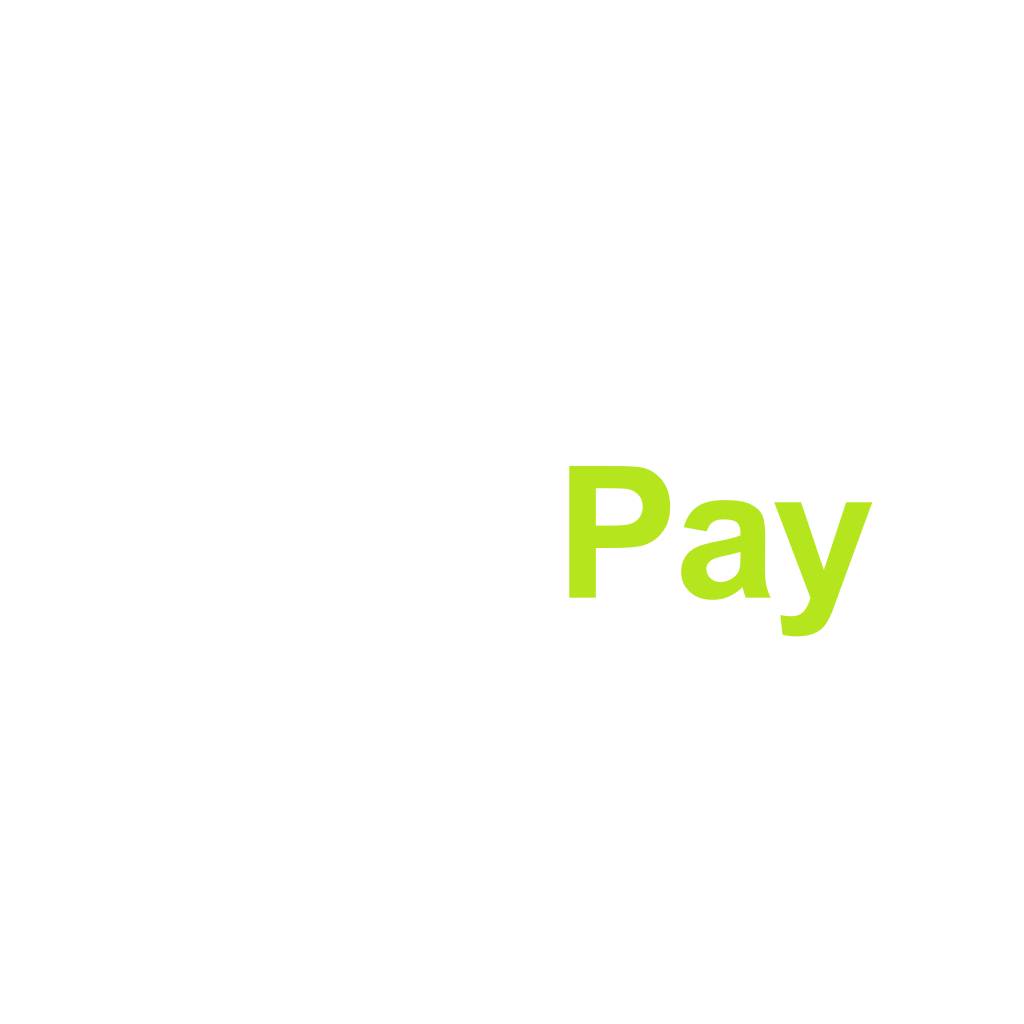
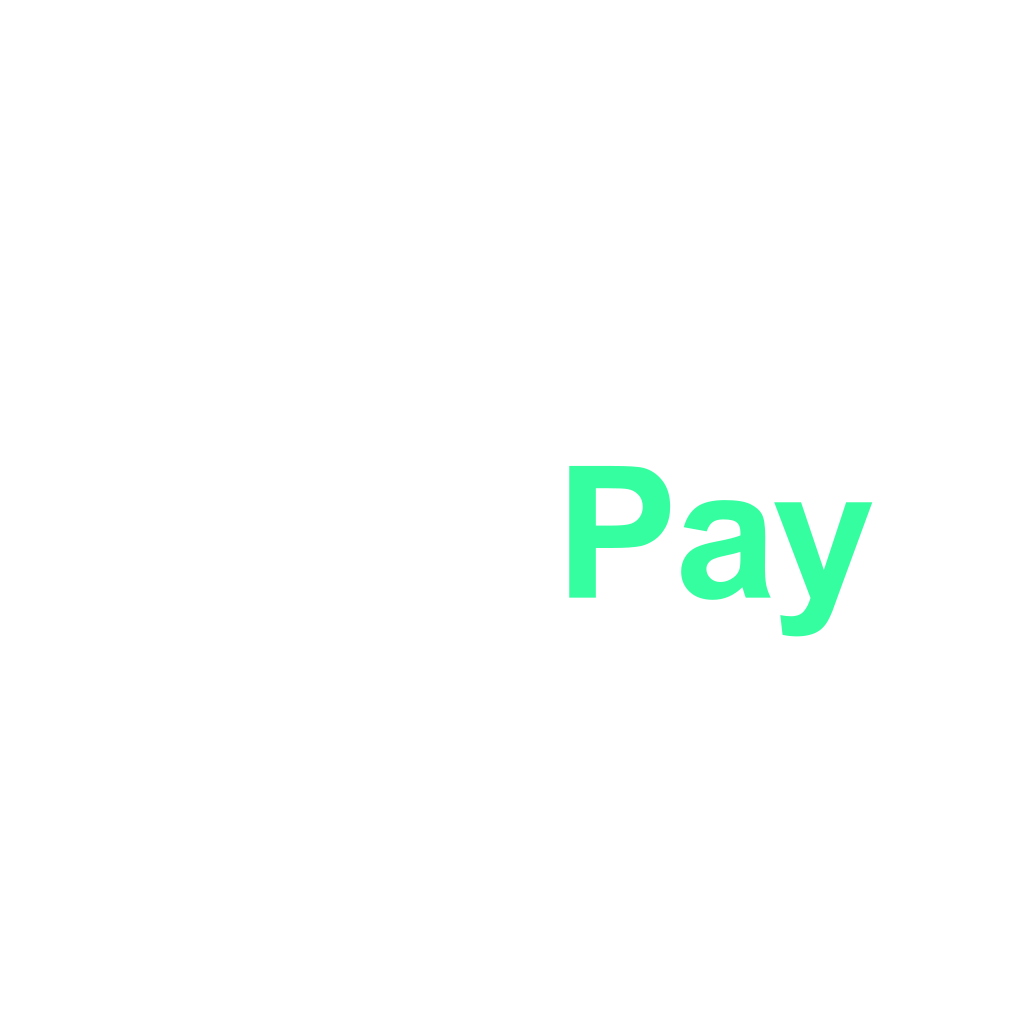
Recolour the brand assets to the product accent
The icon carried #b5e61d (yellow-lime) while Colors.primary — every CTA, badge,
chart accent and focus state in the app — is #34fea0 (mint). ADR-008 settled
that the token wins; this makes the assets agree with it.

icon.png, favicon.png, splash-icon.png and android-icon-foreground.png now
carry the mint accent. android-icon-background.png (solid plate) and
android-icon-monochrome.png (single-colour by definition) have no accent and
were left alone.

This is a recolour, not a redraw, so no design tool was required. Accent
coverage per pixel comes from `g - b`, which separates the lime accent (201)
from both the plate (-3) and the white "Lenz" (0) — that is what changes one
half of the wordmark without touching the other. The opaque icons antialias in
RGB, so edge pixels are recomposed as plate + coverage x mint; the transparent
assets antialias in alpha, so RGB is shifted and alpha preserved. Swapping
exact-match pixels instead would have left lime fringing on every glyph edge.

Verified: zero residual lime pixels, white pixel counts unchanged, all four
files smaller than before.

Changed region(s): [[0.5312, 0.4375, 0.8438, 0.625]]

diff --git a/docs/ARCHITECTURE-DECISIONS.md b/docs/ARCHITECTURE-DECISIONS.md
@@ -358,9 +358,28 @@ The token wins because every CTA, badge, chart accent and focus state already
 uses it — changing the token would mean recolouring the entire product to match
 one asset.
 
-**Outstanding:** `assets/icon.png`, `splash-icon.png` and the Android adaptive
-icon are the outliers and need regenerating in mint. That needs a design tool,
-not code.
+**Done.** The assets were recoloured in place: `icon.png`, `favicon.png`,
+`splash-icon.png` and `android-icon-foreground.png` now carry `#34fea0`.
+
+No design tool was needed — the glyphs already existed, so this was a recolour
+rather than a redraw. The method matters for anyone repeating it:
+
+- Accent coverage per pixel is derived from `g − b`, which separates the lime
+  accent (201) from both the plate (−3) and the white "Lenz" (0). That is what
+  lets the accent change without touching the white half of the wordmark.
+- On the opaque icons antialiasing lives in RGB, so edge pixels are recomposed
+  as `plate + coverage × mint`. On the transparent assets coverage lives in the
+  alpha channel, so RGB is shifted and alpha preserved.
+- Naively swapping exact-match pixels would have left lime fringing on every
+  glyph edge. Verified afterwards: zero residual lime pixels, white pixel count
+  unchanged, and all four files got smaller.
+
+`android-icon-background.png` (solid plate) and `android-icon-monochrome.png`
+(single-colour by definition) carry no accent and were correctly left alone.
+
+The icon plate remains `#1c2326` while the app canvas is `#0e0e0f`. That is
+deliberate — a home-screen icon is its own surface, and the splash background
+was already aligned to the canvas separately.
 
 ---
 
